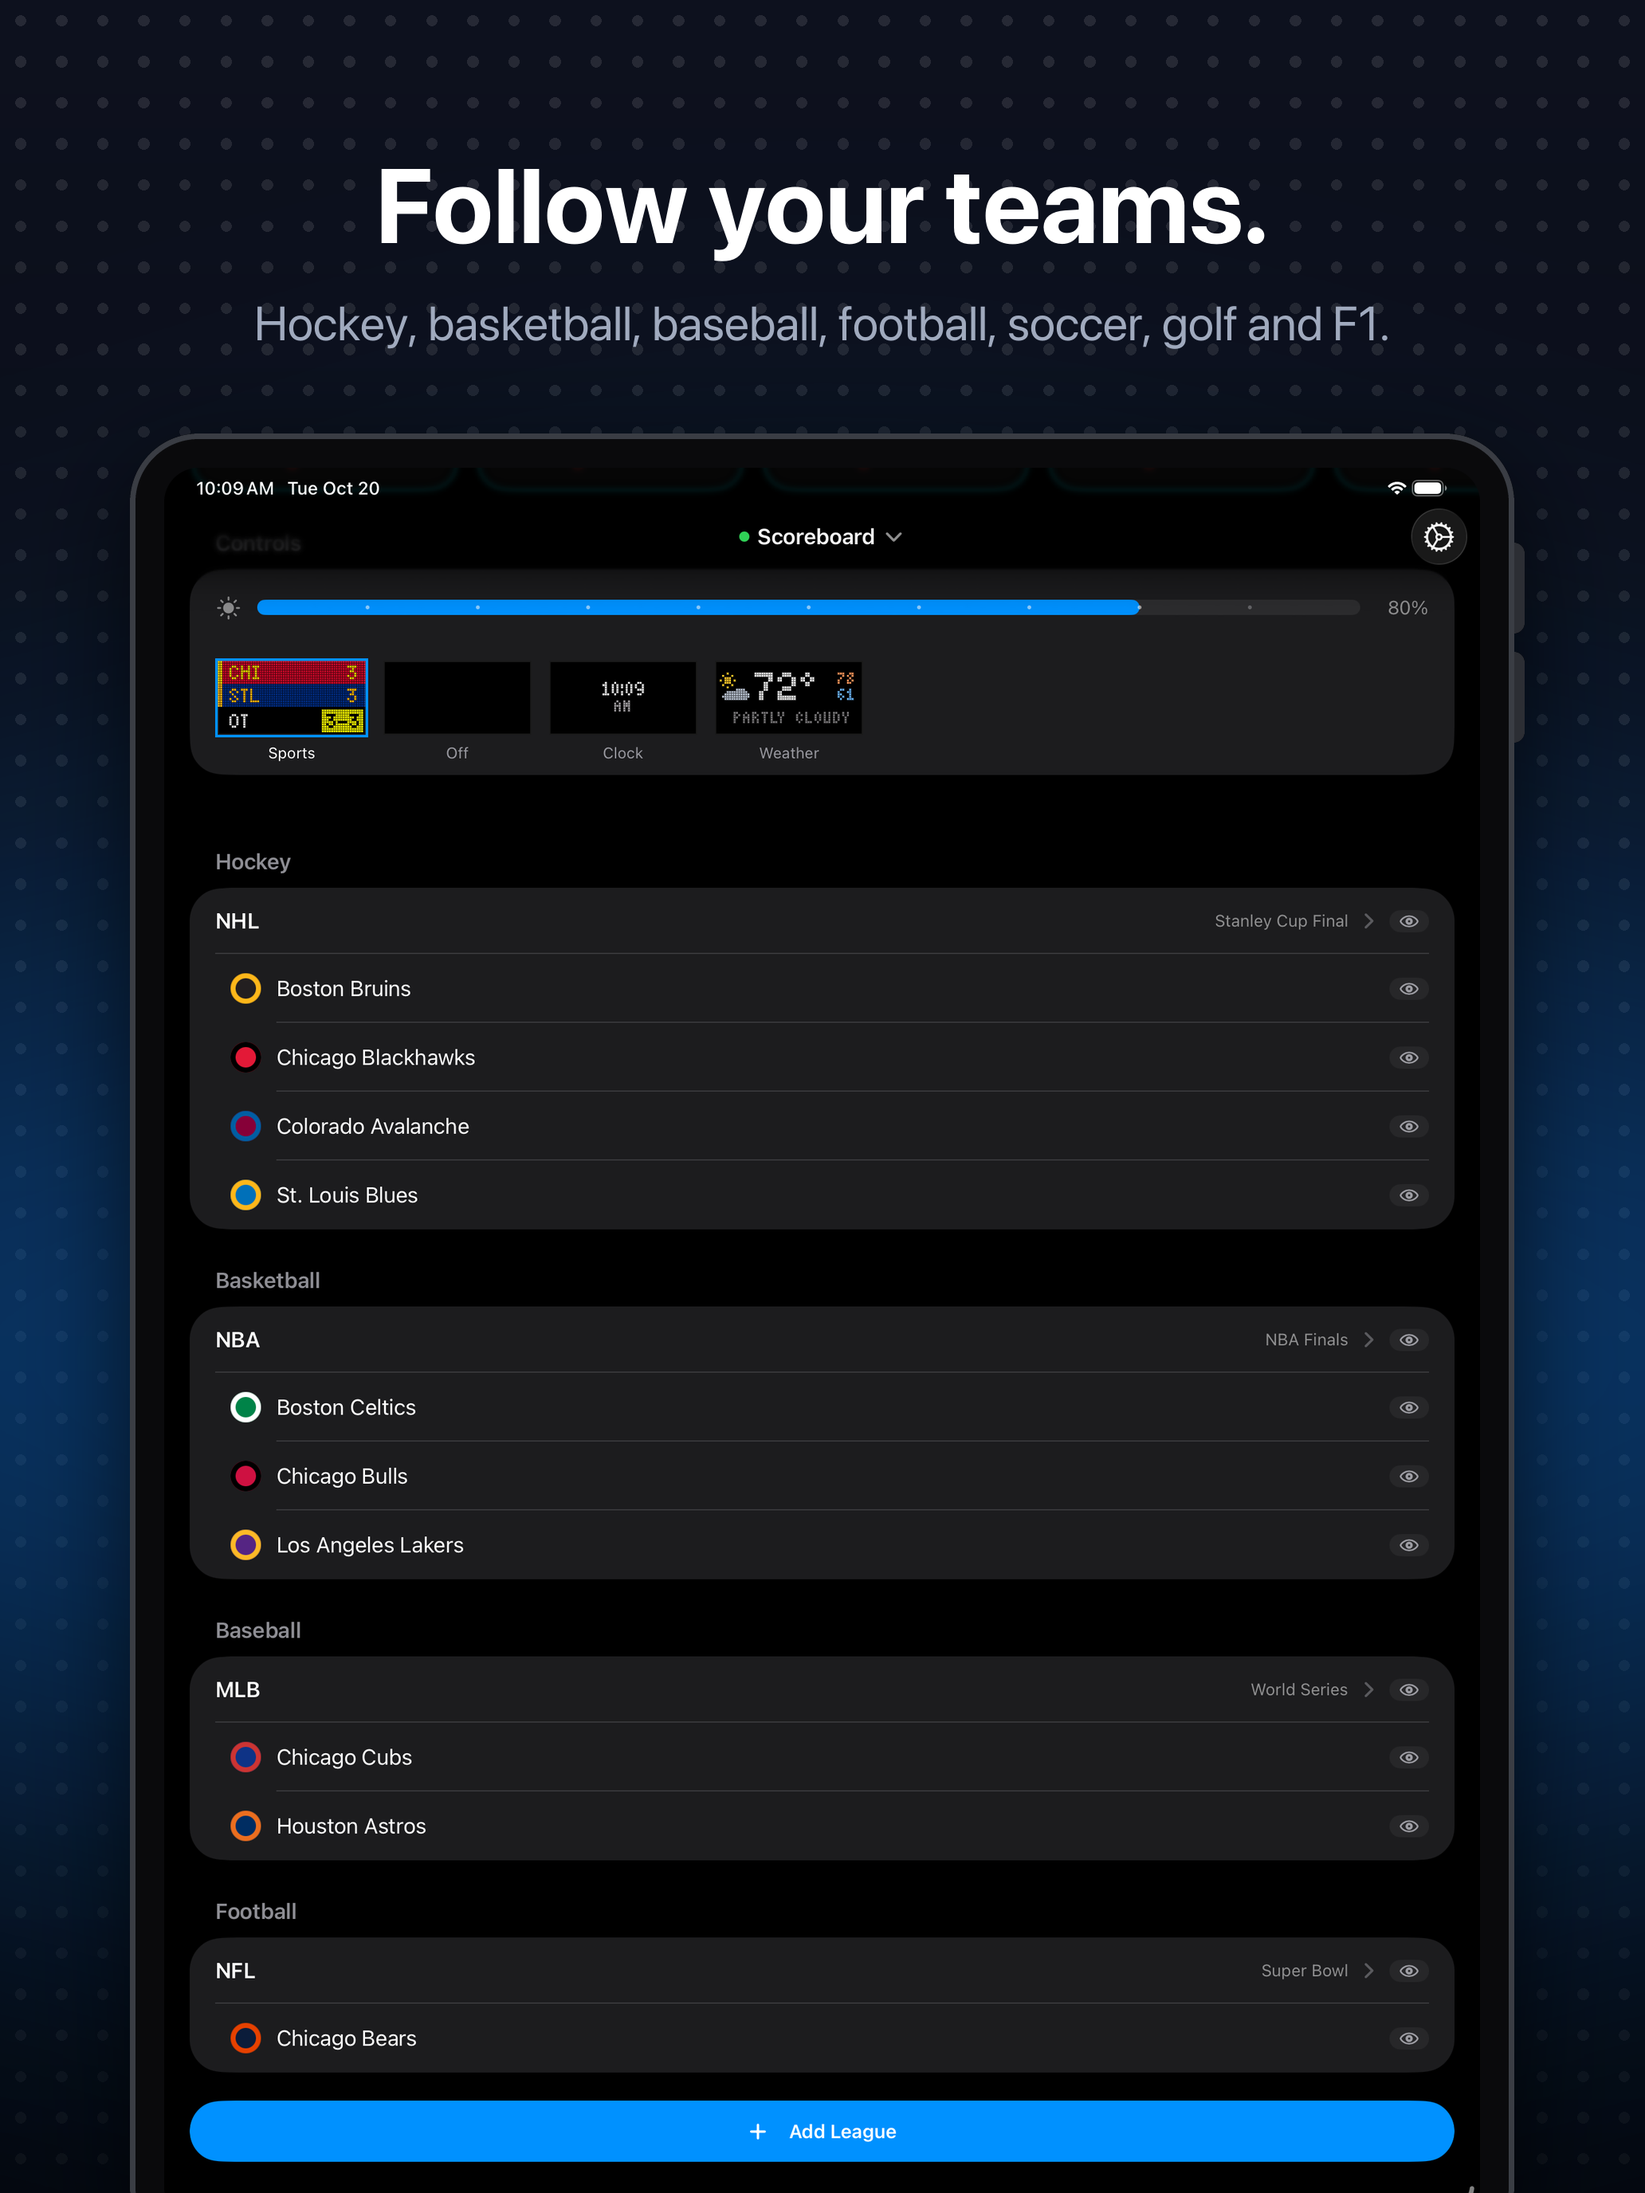
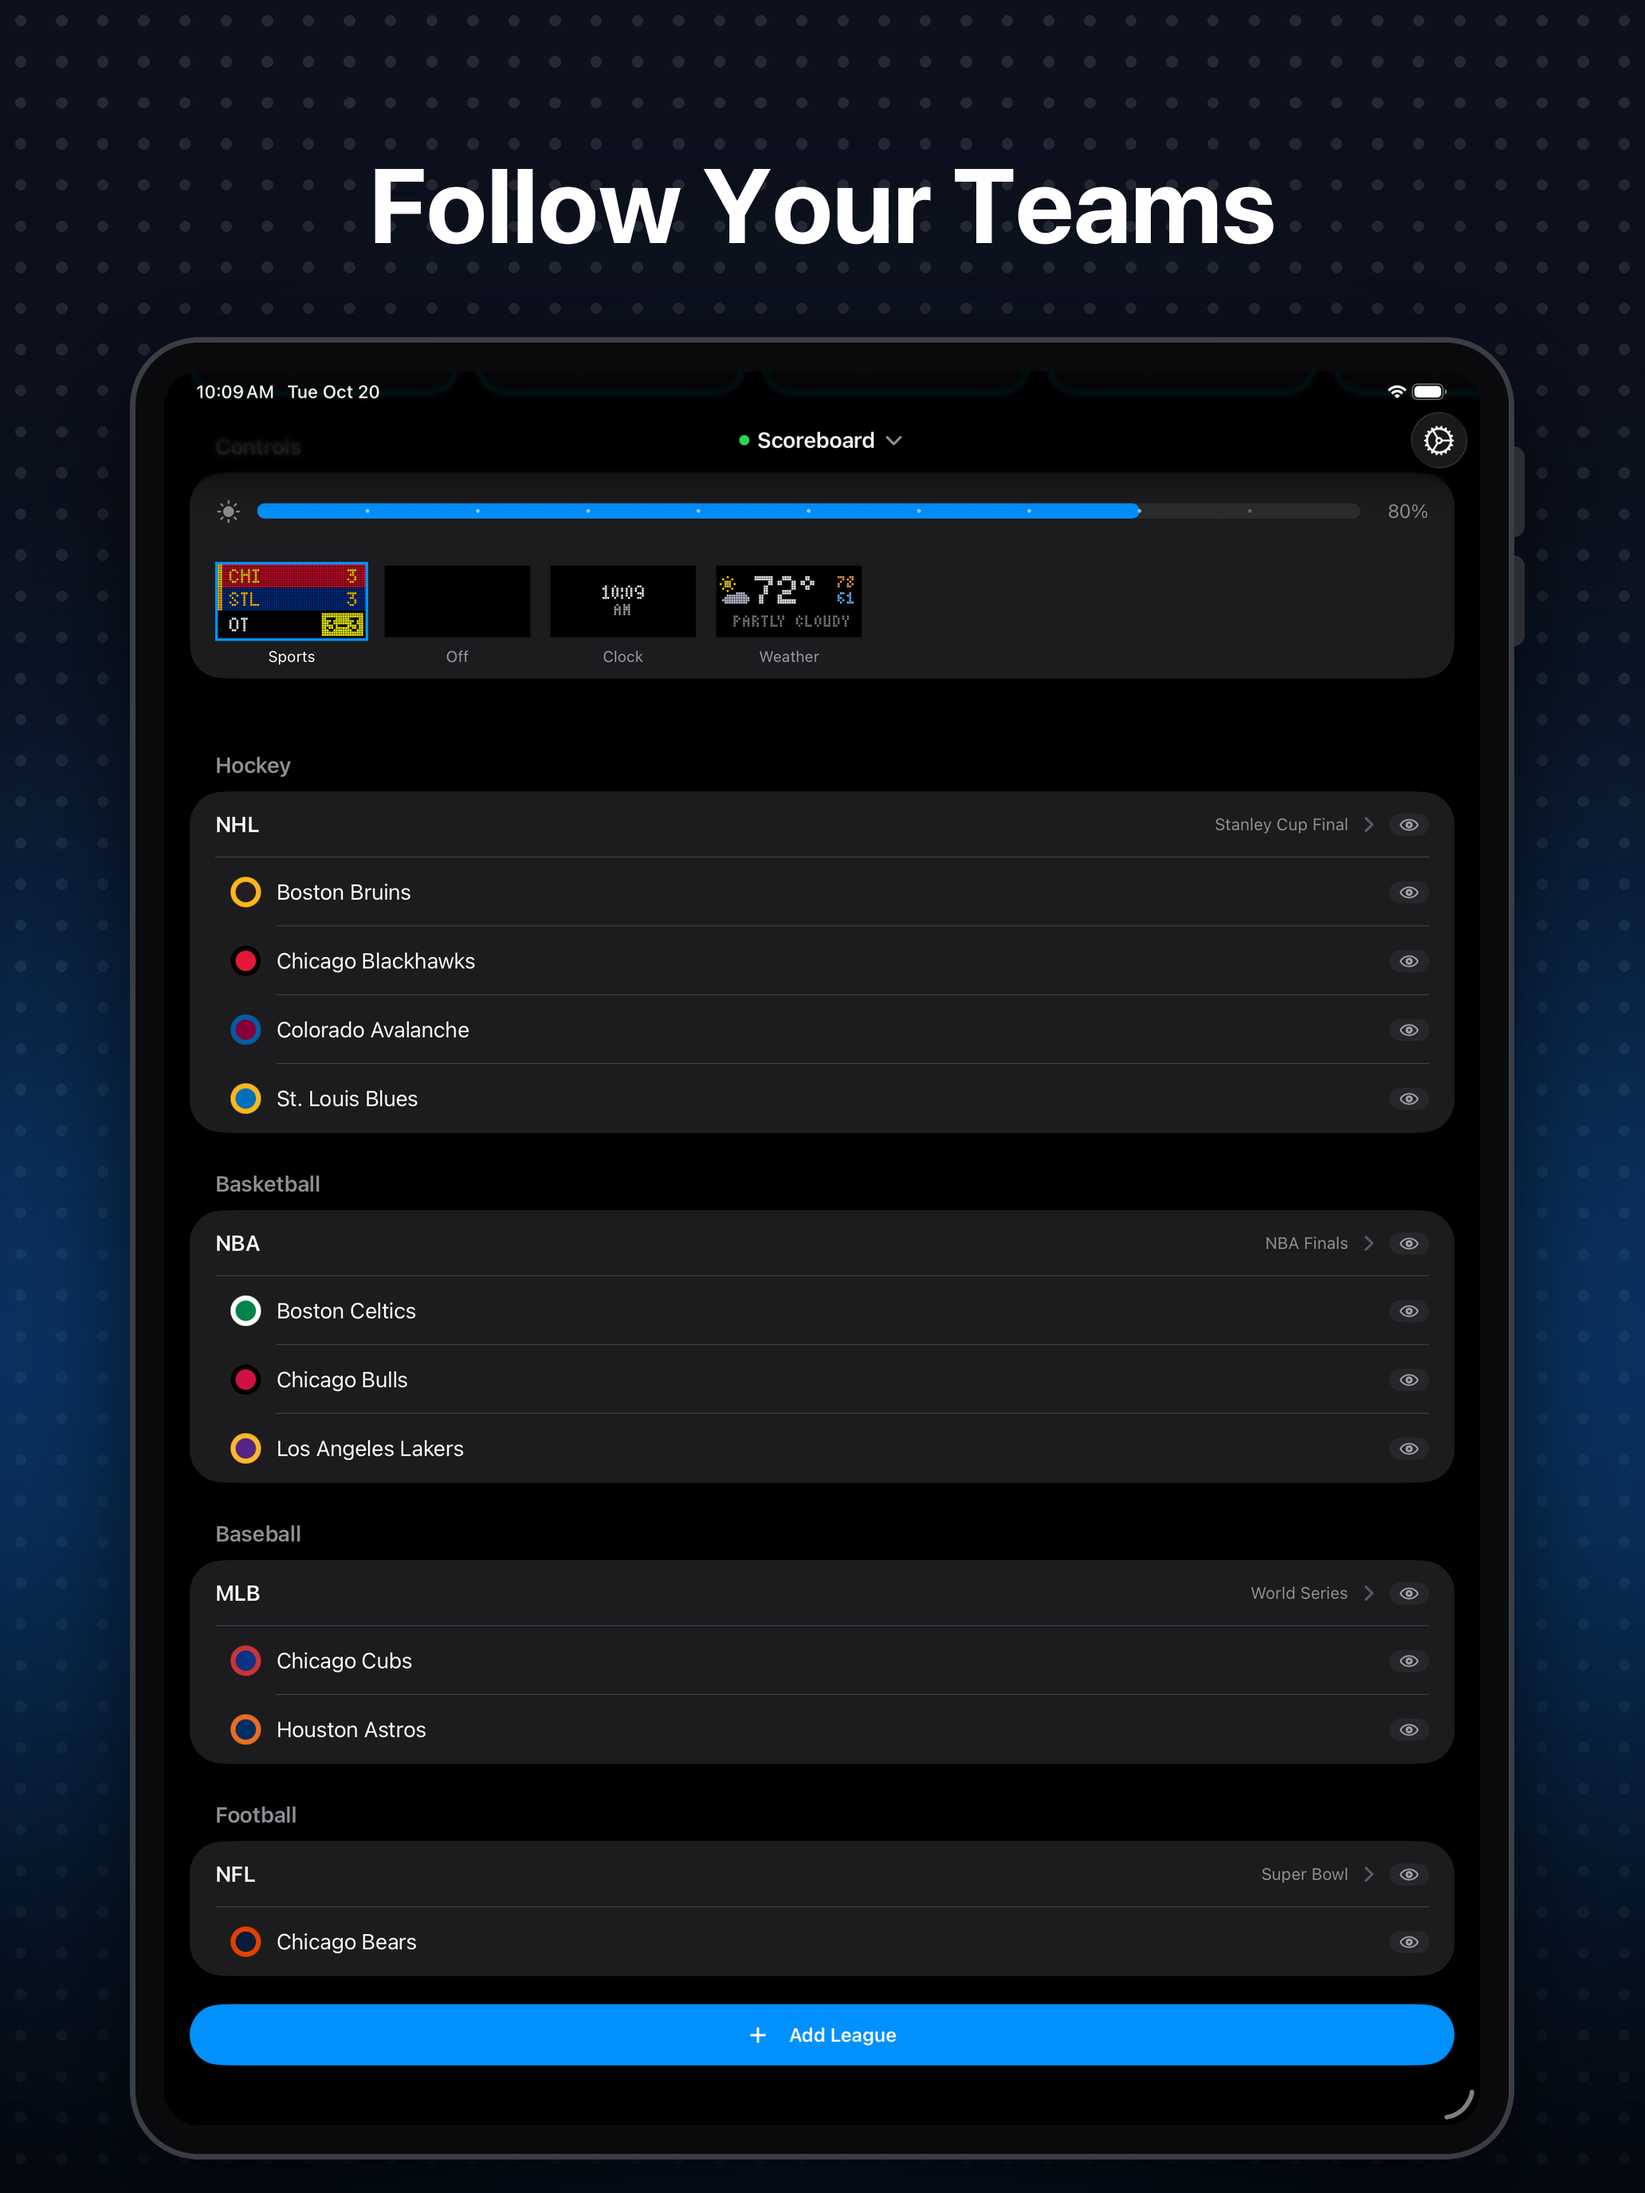
Store screenshots: two slides, titles only
The store listing now carries two slides per device, with no caption
lines: "Control your OpenScoreboard" (the LED board over the dashboard)
and "Follow Your Teams" (the leagues and favorite teams). These are the
sets uploaded to App Store Connect for version 1.0.

compose.py makes `sub` optional and deletes slide PNGs in out/ that are
no longer in SLIDES, since each folder is uploaded whole. The overview
contact sheets are gone; the raw captures for the dropped slides stay
in raw/ in case they come back.

diff --git a/design/store/compose.py b/design/store/compose.py
@@ -32,32 +32,16 @@ AV_BOLD, AV_MEDIUM = 0, 5
 BG_TOP, BG_BOTTOM = (13, 17, 30), (4, 5, 9)
 TITLE, SUBTITLE = (255, 255, 255), (160, 170, 190)
 
-# One list drives every platform. `shot` names a capture per platform.
+# One list drives every platform. `shot` names a capture per platform; `sub`
+# (a line under the title) is optional. The other captures in raw/ (all games,
+# league editor, screens) are unused but kept for slides that may come back.
 SLIDES = [
     dict(key='01-hero', hero=True, accent=(255, 184, 28),
-         title='Live scores,\non your wall.',
-         sub='A real LED scoreboard that follows your teams.',
+         title='Control your OpenScoreboard',
          shot=dict(ios='dashboard', ipad='dashboard', android='dashboard')),
     dict(key='02-teams', accent=(10, 132, 255),
-         title='Follow your teams.',
-         sub='Hockey, basketball, baseball, football, soccer, golf and F1.',
+         title='Follow Your Teams',
          shot=dict(ios='teams', ipad='teams', android='teams')),
-    dict(key='03-situations', accent=(48, 209, 88),
-         title='Every situation,\nat a glance.',
-         sub='Downs and field position. Bases and the count.',
-         shot=dict(ios='situations', ipad='situations', android='situations')),
-    dict(key='04-leaderboards', accent=(255, 69, 58),
-         title='Leaderboards, too.',
-         sub='Golf majors and Formula 1 on the same panel.',
-         shot=dict(ios='leaderboards', ipad='leaderboards', android='leaderboards')),
-    dict(key='05-make-it-yours', accent=(191, 90, 242),
-         title='Make it yours.',
-         sub='Big games, spoilers, team names — every choice previewed on the panel.',
-         shot=dict(ios='league', ipad='league', android='league')),
-    dict(key='06-screens', accent=(100, 210, 255),
-         title='Clock and weather\nwhen nothing’s on.',
-         sub='Quiet hours put the board to sleep overnight.',
-         shot=dict(ios='screens', ipad='screens', android='screens')),
 ]
 
 # Per-target geometry. `screen` is the device kind drawn around the capture.
@@ -153,6 +137,8 @@ def draw_text(img, slide, t, top):
     for line in wrap(slide['title'], tf, W * 0.9):
         d.text((W / 2, y), line, font=tf, fill=TITLE, anchor='ma')
         y += tf.size * 1.12
+    if not slide.get('sub'):
+        return y
     y += tf.size * 0.32
     for line in balanced(slide['sub'], sf, W * 0.80):
         d.text((W / 2, y), line, font=sf, fill=SUBTITLE, anchor='ma')
@@ -358,8 +344,15 @@ def feature_graphic():
 
 
 def main():
+    keep = {s['key'] + '.png' for s in SLIDES}
     for name, t in TARGETS.items():
         os.makedirs(os.path.join(OUT, name), exist_ok=True)
+        # Each folder is uploaded whole, so a slide dropped from SLIDES must
+        # not linger in it.
+        for f in os.listdir(os.path.join(OUT, name)):
+            if f.endswith('.png') and f not in keep:
+                os.remove(os.path.join(OUT, name, f))
+                print('removed', os.path.join('out', name, f))
         for slide in SLIDES:
             img = compose_slide(slide, t)
             if img is None:
